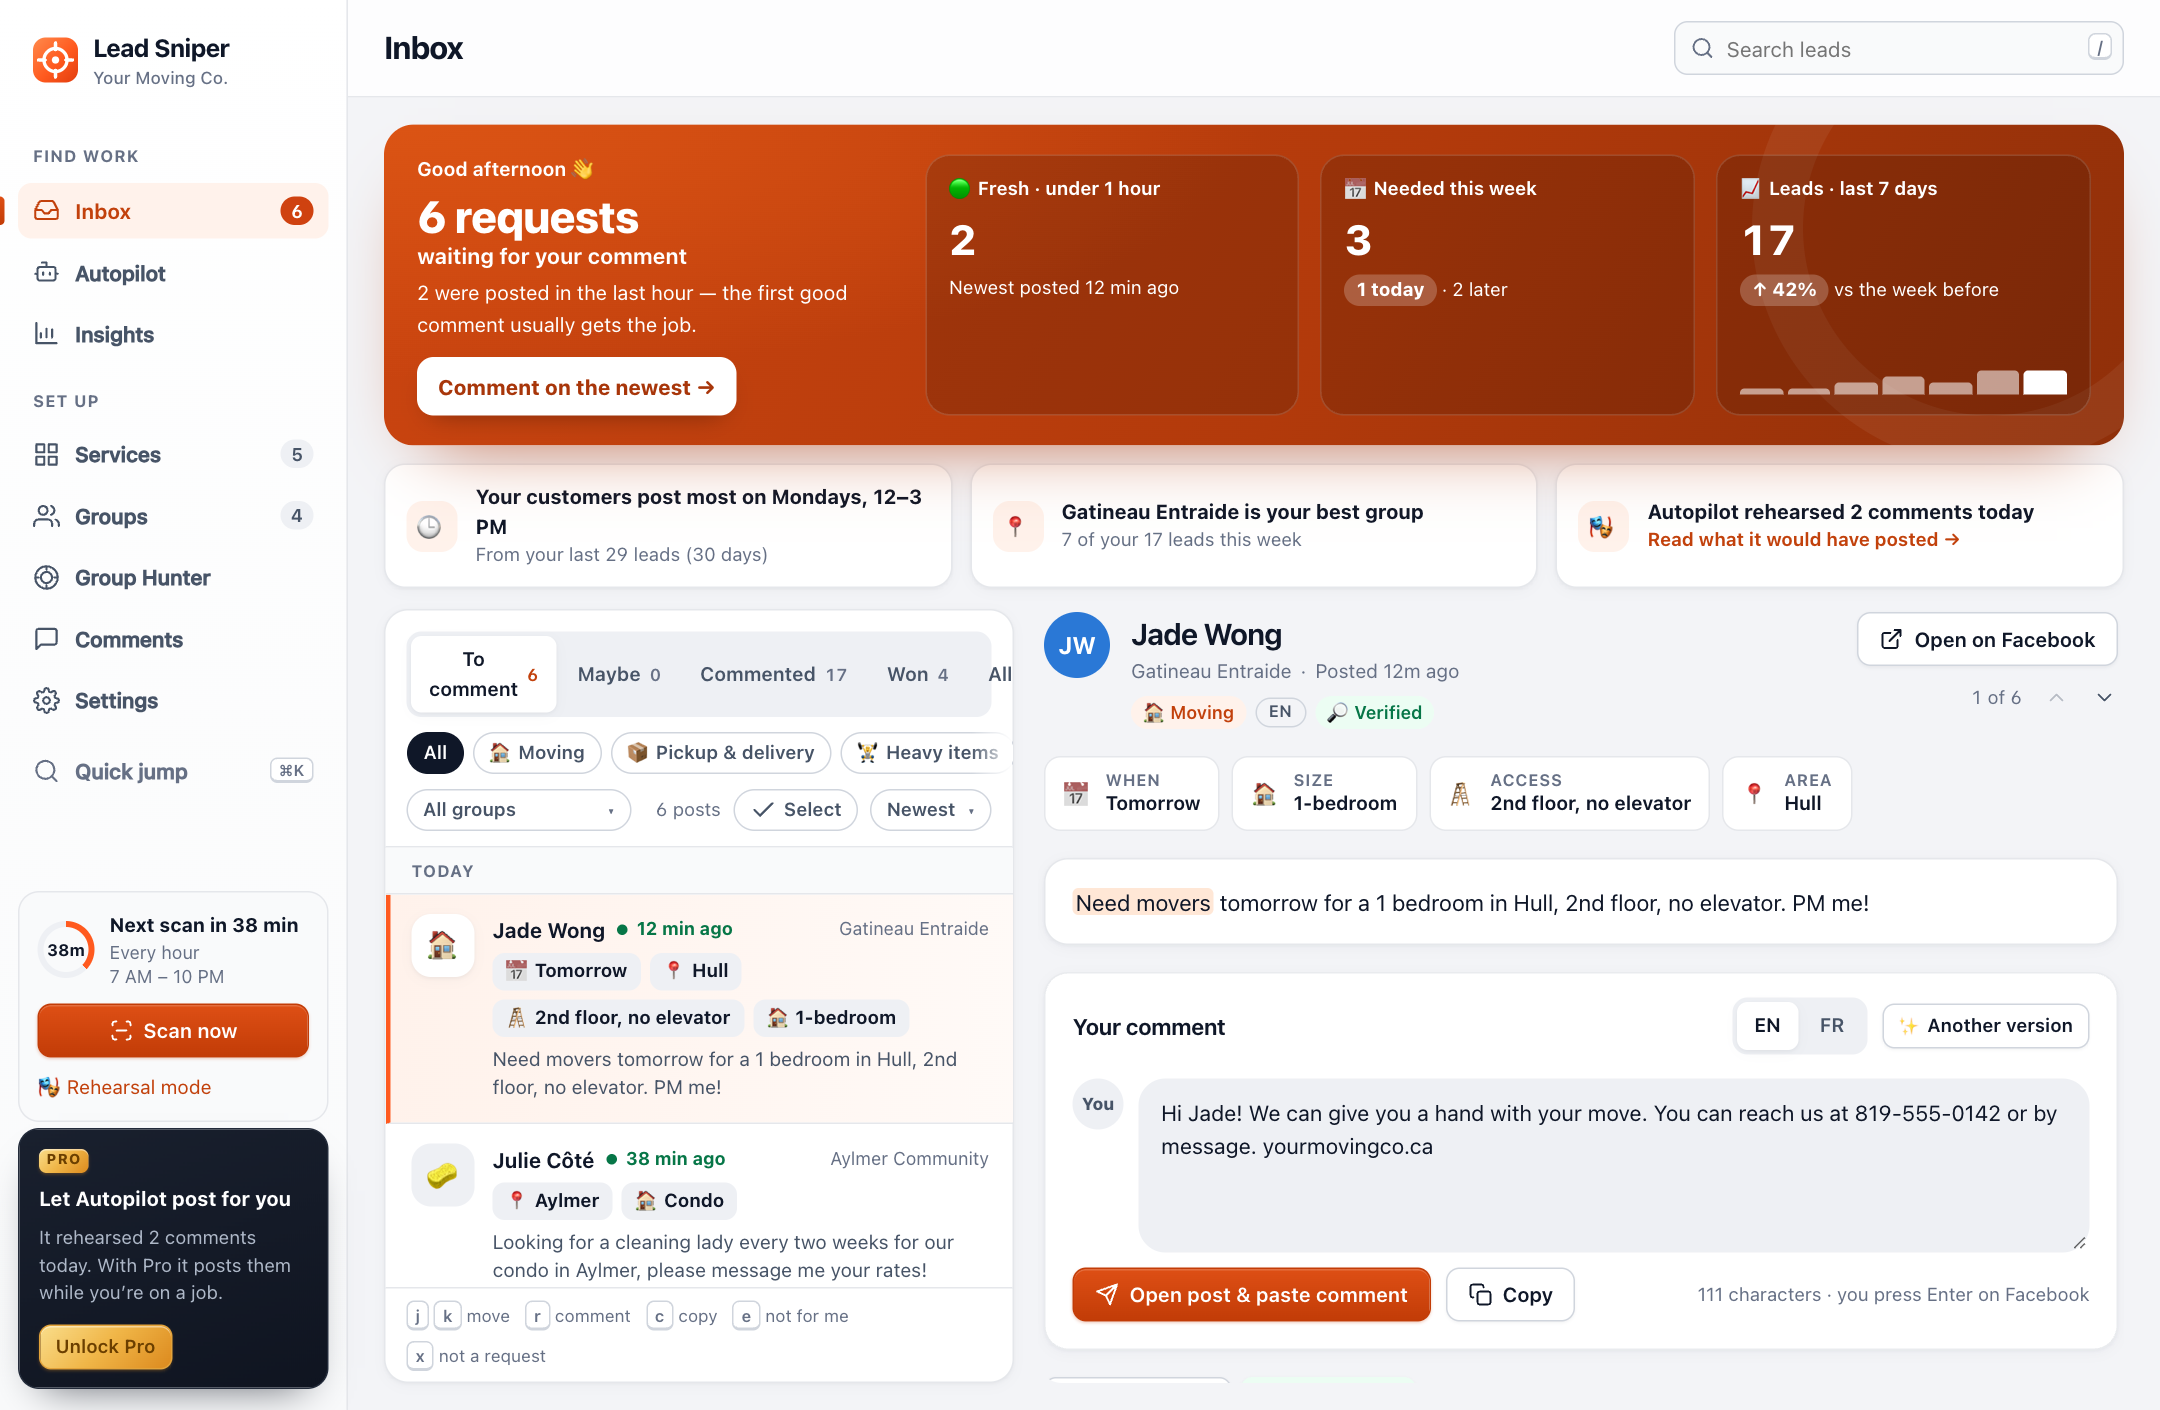
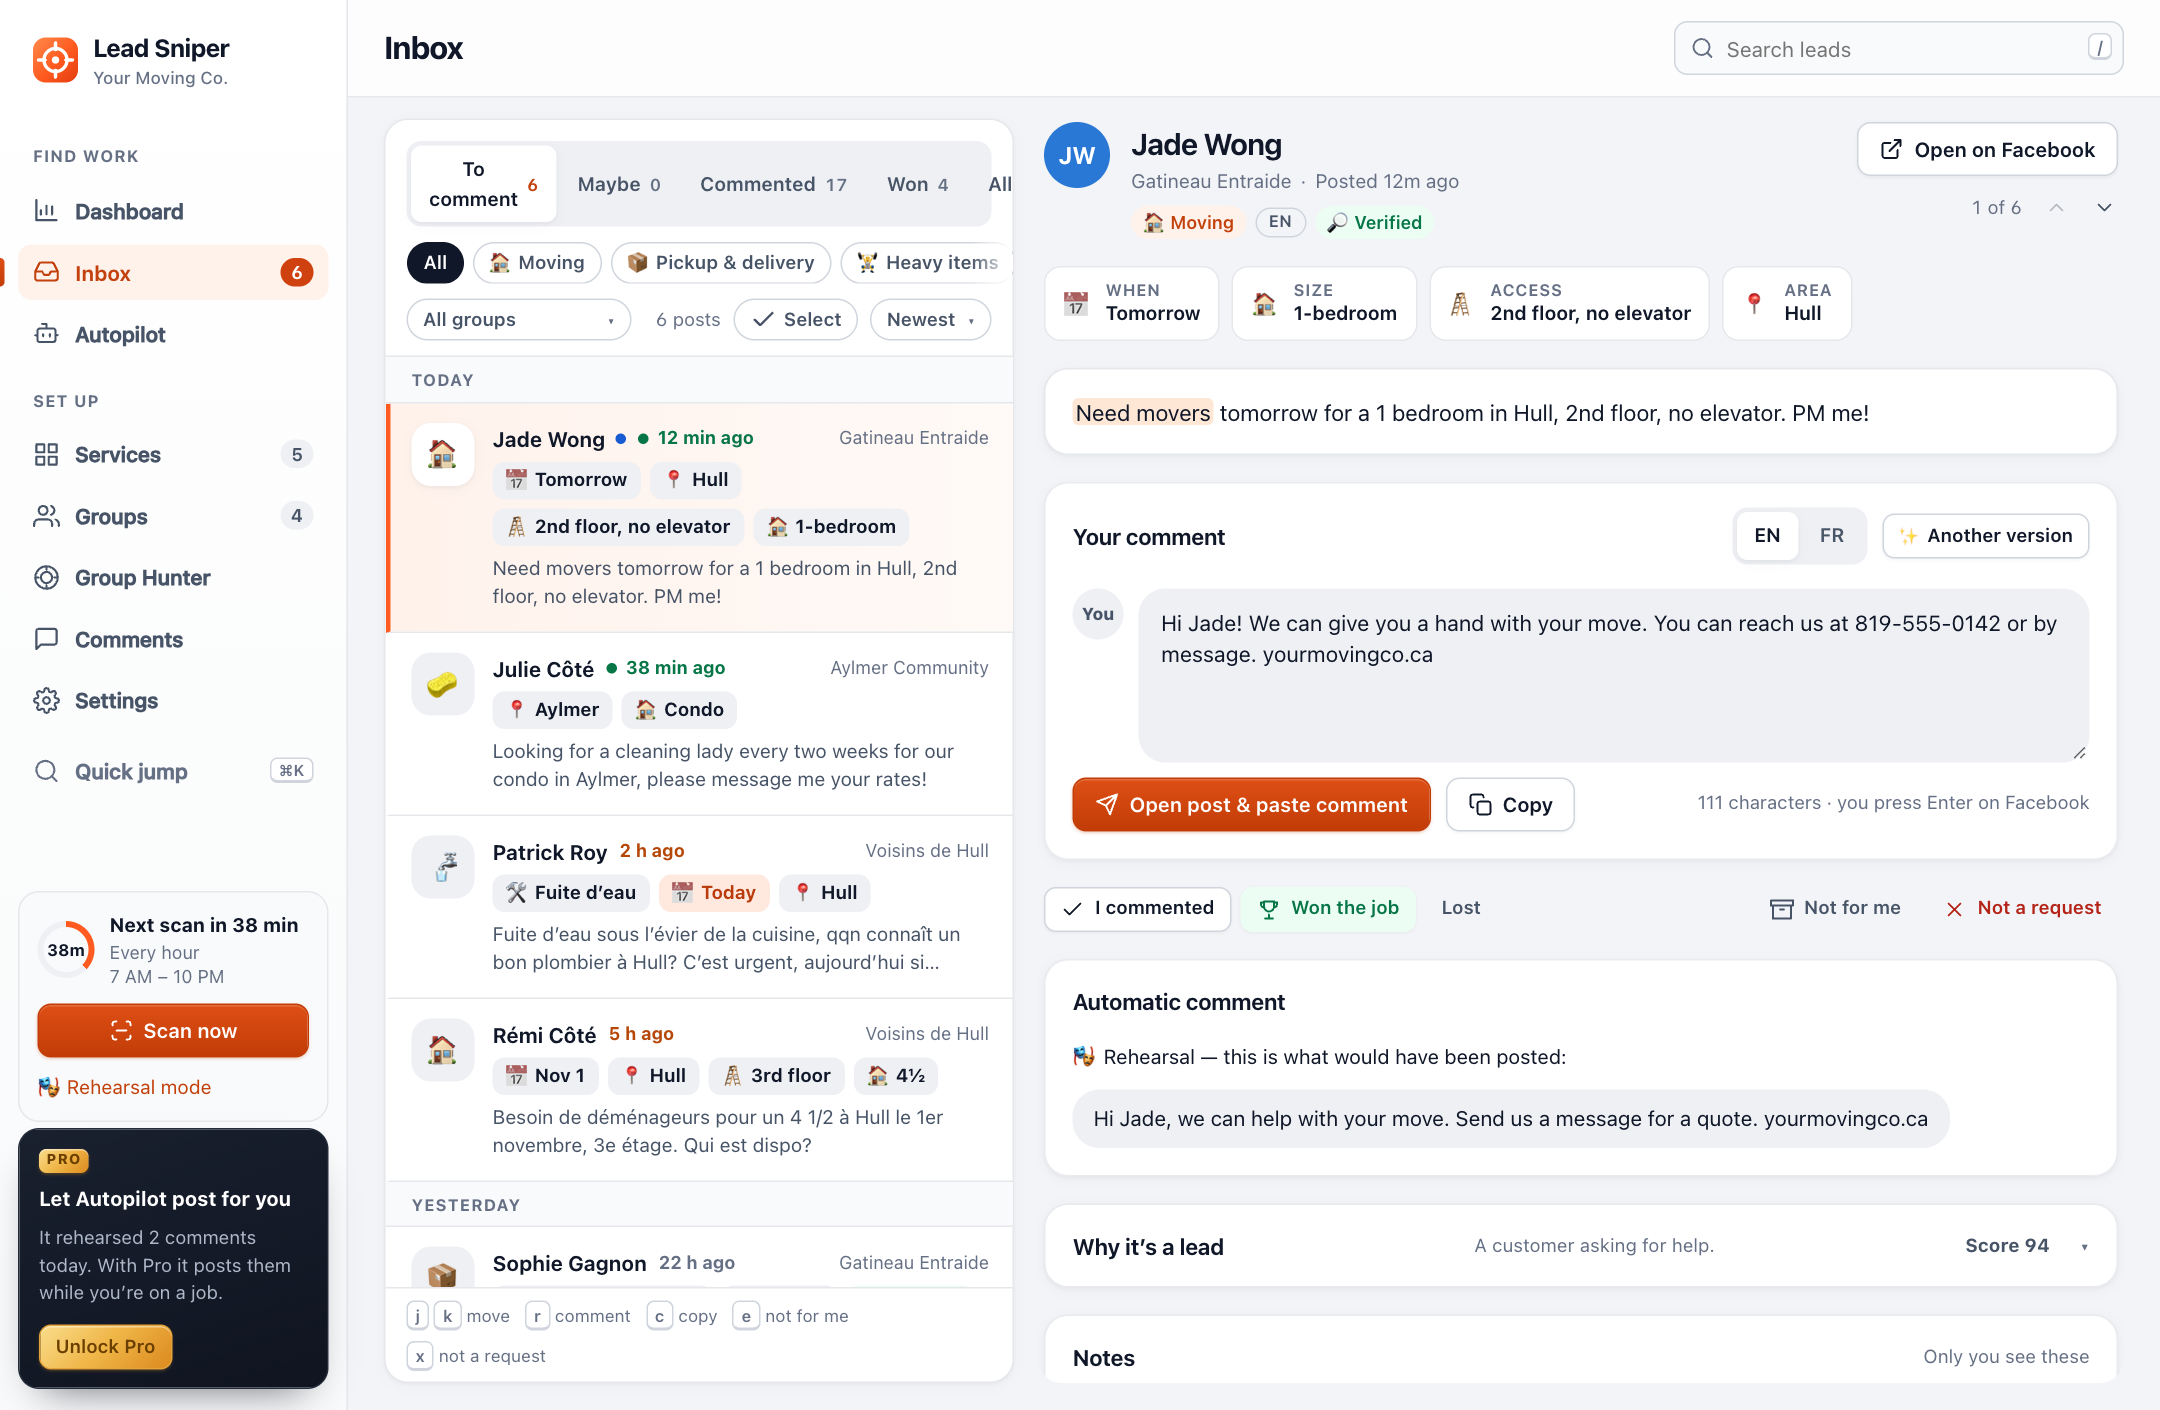
Lead Sniper 3.11.10: a Dashboard, details per service, fewer wrong comments

diff --git a/index.html b/index.html
@@ -180,7 +180,7 @@ section.alt { background: var(--bg-2); }
     </div>
   </div>
   <div class="stage">
-    <div class="frame"><div class="bar"><i></i><i></i><i></i></div><img src="assets/inbox.png" width="1440" height="940" alt="The Lead Sniper inbox: six requests waiting, tips for today, the job at a glance and a ready comment"></div>
+    <div class="frame"><div class="bar"><i></i><i></i><i></i></div><img src="assets/inbox.png" width="1440" height="940" alt="The Lead Sniper inbox: your leads, the job at a glance and a ready comment"></div>
     <div class="toast"><span class="badge ok">✓ 84</span><div>Auto-commented on Louis’s post<small>❄ Snow removal · Clear my driveway · Aylmer</small></div></div>
     <div class="post">
       <div class="lsbar"><span class="badge">🎯 90</span><b>Moving lead</b><span class="s">4½ · 2nd floor, no elevator · Hull → Aylmer · Jul 1</span></div>

diff --git a/RELEASE.md b/RELEASE.md
@@ -8,6 +8,16 @@
 ### Updating
 Download the new **lead-sniper.zip**, double-click it, and copy everything inside the new **lead-sniper** folder over the files in your old one (the folder shown under *Lead Sniper → Details → Loaded from* at `brave://extensions`). Then just open the Lead Sniper dashboard: it notices the new version and updates itself — no reload button to find. (From 3.8.3 on, it also checks its folder every couple of minutes.)
 
+### 3.11.10: a Dashboard, details per service, fewer wrong comments
+- 📊 **A Dashboard:** today at a glance (requests waiting, fresh, needed this week, your week, tips) now has its own page, with Insights below it. **The inbox is just your leads**, full height. Old Insights links open the Dashboard
+- 🏷 **Each service can have its own name, phone and website** (Comments → What goes in each comment → *Different details for…*). Its comments use them; anything left empty uses your main details
+- 🧭 **Measuring a new find says so:** after your groups, while a scan reads one of Group Hunter's new finds, the scan window shows “Your groups are done — measuring a new find for Group Hunter” the whole time, with a Stop button. And it measures better finds: lost-and-found groups (« animaux perdus ou trouvés »), “chat groups” and pet-friendly rentals no longer pass for pet groups, and “Stuff for sale” groups count as buy & sell
+- 🤖 **Autopilot un-pauses itself when its comment turns up:** if Facebook didn't show a comment right away (Autopilot pauses to be safe) and Lead Sniper later sees it under the post, it's marked sent and automatic comments resume
+- 🛑 **Wrong comments fixed:** a repair (“the sink is detaching from the countertop… take up part of the deck”) was read as heavy items; a plumber request with a “drain assembly” was read as assembly; someone asking for moving boxes was a moving lead
+- 🔎 **Requests it used to miss:** a piano move (« recommandation de gens… pour déplacer »), “gutter compagnie”, “a business that cleans gutters”, a roof problem near the chimney, a spa that won't run, a pipefitter, a water filter, light fixtures, a sink that won't drain, soil to haul away
+- Not customers: a helper offering to join a project, a drywall company's “whether you're a contractor” ad, a student looking for an event to photograph, a holiday-card drive for educators
+- Your saved posts are re-read with the new rules after the update
+
 ### 3.11.8: fewer wrong leads, more of the jobs people describe
 - 🛑 **Not customers:** “Anyone looking for a cleaner… please contact me” and « vous êtes à la recherche… contactez-nous » ads, a beautician introducing herself (« mes disponibilités pour vos rendez-vous »), a tutoring agency (« nos tuteurs », « 15 % de rabais »), and job seekers (“any… positions for”, “in need of cash work”, “willing to learn”)
 - 🗺 **Toronto's suburbs and nearby towns are far away** — Scarborough, North York, Etobicoke, Markham, Newmarket, Bradford and more — for leads, for Autopilot's second check and for Group Hunter
